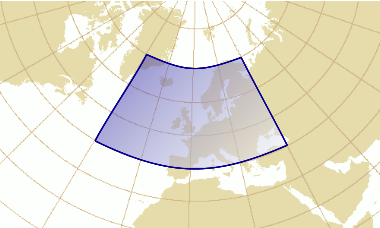
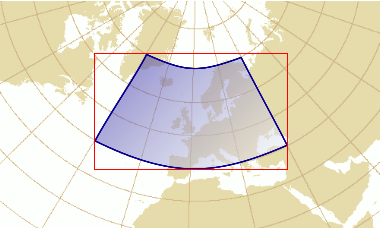
Documentation clarification: represent the projected envelope by a red rectangle.
git-svn-id: https://svn.apache.org/repos/asf/sis/branches/JDK8@1650248 13f79535-47bb-0310-9956-ffa450edef68

Changed region(s): [[0.2605, 0.7368, 0.7526, 0.7675], [0.2605, 0.2149, 0.7526, 0.2456]]

diff --git a/core/sis-referencing/src/main/java/org/apache/sis/geometry/Envelopes.java b/core/sis-referencing/src/main/java/org/apache/sis/geometry/Envelopes.java
@@ -55,8 +55,10 @@ import static org.apache.sis.util.StringBuilders.trimFractionalPart;
  *
  * {@section Envelope transformations}
  * All {@code transform(…)} methods in this class take in account the curvature of the transformed shape.
- * For example in order to get an envelope that fully encompass the shape shown below on the right side,
- * projecting the four corners is not sufficient:
+ * For example the shape of a geographic envelope (figure below on the left side) is not rectangular in a
+ * conic projection (figure below on the right side). In order to get the envelope represented by the red
+ * rectangle, projecting the four corners of the geographic envelope is not sufficient since we would miss
+ * the southerner part.
  *
  * <center><table class="sis">
  *   <caption>Example of curvature induced by a map projection</caption>
